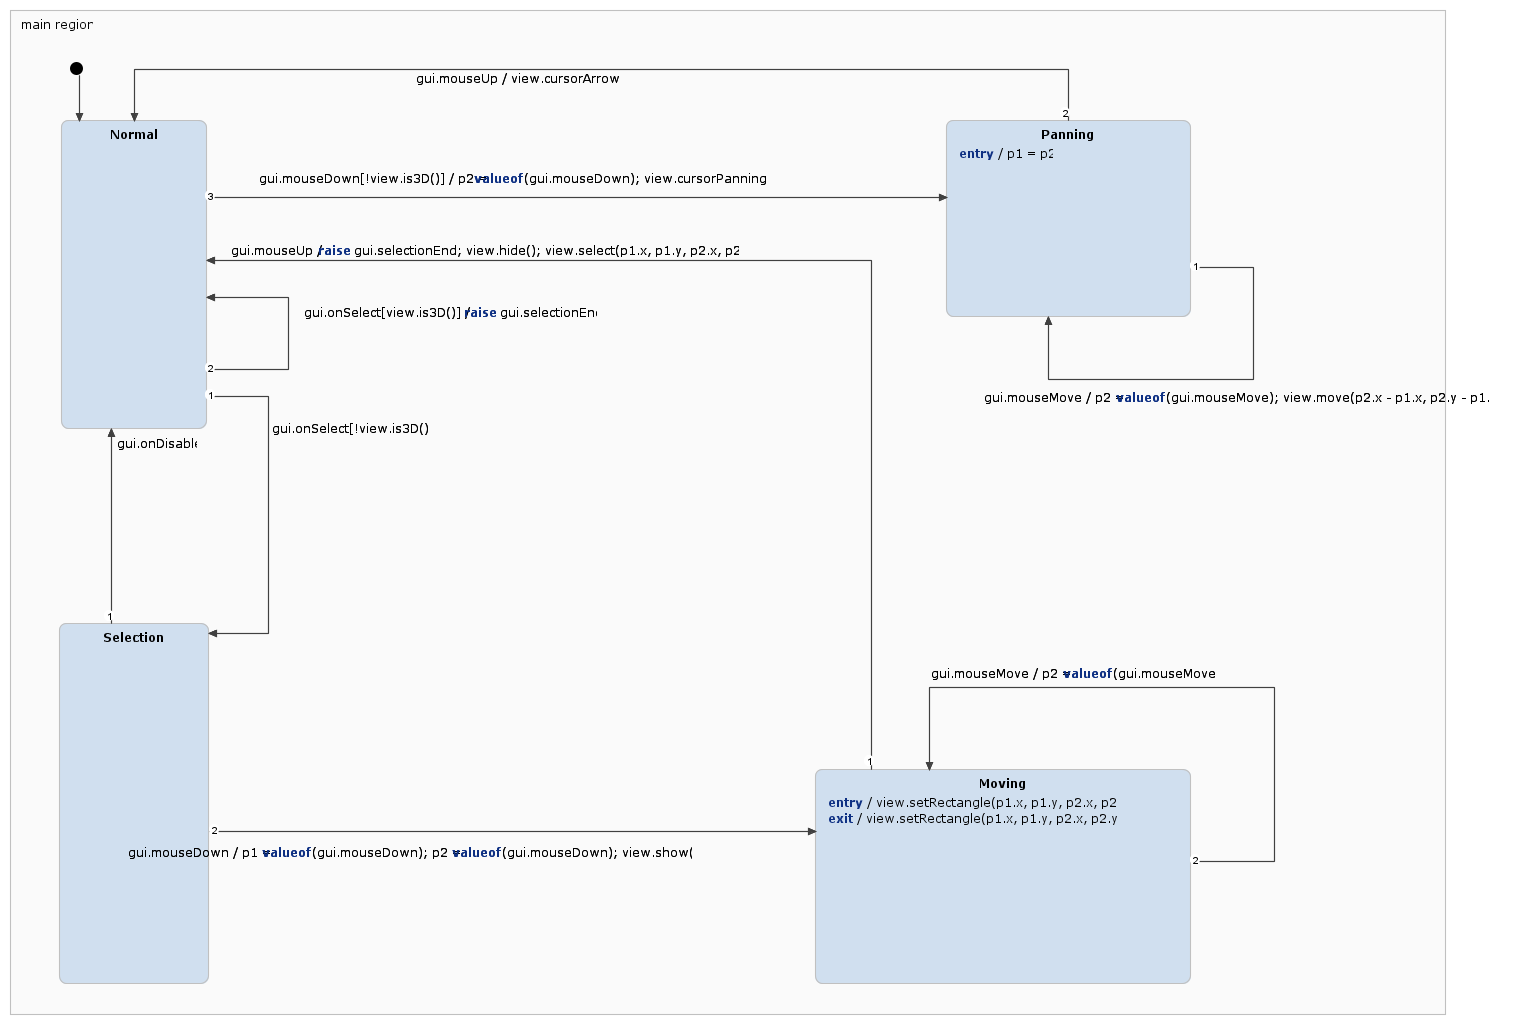
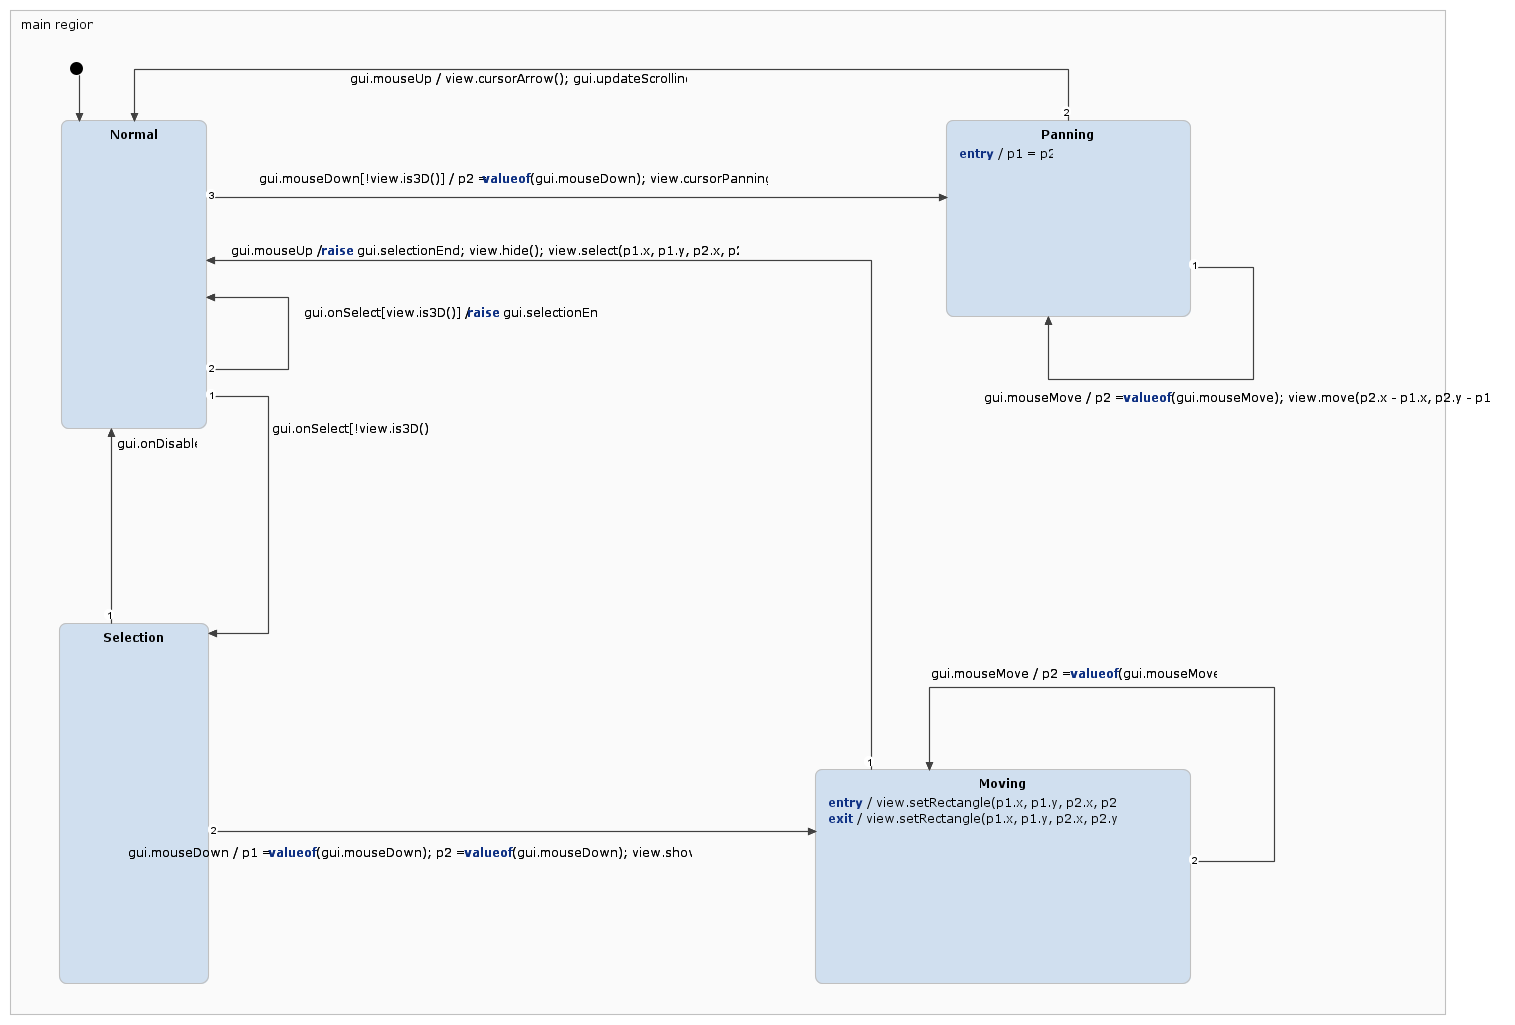
Added scrollbar updates after panning.

diff --git a/src/OpenGL/src-gen/MouseSelect.cpp b/src/OpenGL/src-gen/MouseSelect.cpp
@@ -40,7 +40,8 @@ mouseMove_value(),
 mouseUp_raised(false),
 mouseUp_value(),
 selectionEnd_raised(false),
-parent(parent)
+parent(parent),
+ifaceGuiOperationCallback(sc_null)
 {
 }
 
@@ -160,6 +161,9 @@ sc_boolean MouseSelect::isFinal() const
    return false;}
 
 sc_boolean MouseSelect::check() {
+	if (this->ifaceGui.ifaceGuiOperationCallback == sc_null) {
+		return false;
+	}
 	if (this->ifaceView.ifaceViewOperationCallback == sc_null) {
 		return false;
 	}
@@ -248,6 +252,10 @@ void MouseSelect::Gui::internal_raiseMouseUp(SCT_point value)
 sc::rx::Observable<void>* MouseSelect::Gui::getSelectionEnd()
 {
 	return &(this->selectionEnd_observable);
+}
+void MouseSelect::Gui::setOperationCallback(OperationCallback* operationCallback)
+{
+	ifaceGuiOperationCallback = operationCallback;
 }
 MouseSelect::View* MouseSelect::view()
 {
@@ -540,6 +548,7 @@ sc_integer MouseSelect::main_region_Panning_react(const sc_integer transitioned_
 			{ 
 				exseq_main_region_Panning();
 				ifaceView.ifaceViewOperationCallback->cursorArrow();
+				ifaceGui.ifaceGuiOperationCallback->updateScrolling();
 				enseq_main_region_Normal_default();
 				react(0);
 				transitioned_after = 0;

diff --git a/src/OpenGL/src-gen/MouseSelect.h b/src/OpenGL/src-gen/MouseSelect.h
@@ -151,6 +151,20 @@ public:
 
 
 
+		//! Inner class for gui interface scope operation callbacks.
+		class OperationCallback
+		{
+		public:
+			virtual ~OperationCallback() = 0;
+
+			virtual void updateScrolling() = 0;
+
+
+		};
+
+		/*! Set the working instance of the operation callback interface 'OperationCallback'. */
+		void setOperationCallback(OperationCallback * operationCallback);
+
 
 	private:
 		friend class MouseSelect;
@@ -181,6 +195,7 @@ public:
 
 
 
+		OperationCallback * ifaceGuiOperationCallback;
 
 
 	};
@@ -353,6 +368,7 @@ private:
 };
 
 
+inline MouseSelect::Gui::OperationCallback::~OperationCallback() {}
 inline MouseSelect::View::OperationCallback::~OperationCallback() {}
 
 

diff --git a/src/OpenGL/b3OpenGLScrollArea.cpp b/src/OpenGL/b3OpenGLScrollArea.cpp
@@ -37,6 +37,7 @@ QB3OpenGLScrollArea::QB3OpenGLScrollArea(QWidget * parent) :
 
 	b3PrintF(B3LOG_FULL, "%d %d %lf\n", rel, pos, value);
 #endif
+	gui()->setOperationCallback(this);
 }
 
 void QB3OpenGLScrollArea::setGlWidget(QB3OpenGLWidget * glWidget)
@@ -127,6 +128,16 @@ void QB3OpenGLScrollArea::yValueChanged(int value)
 		child->b3MoveView(0.0, rel, view_info);
 		v.bar_pos = value;
 	}
+}
+
+void QB3OpenGLScrollArea::updateScrolling()
+{
+	b3_view_info view_info;
+
+	child->m_View.b3GetView(view_info);
+	b3GetBarInfo(view_info, h, v);
+	update(horizontalScrollBar(), h);
+	update(verticalScrollBar(), v);
 }
 
 void QB3OpenGLScrollArea::b3FullView()

diff --git a/src/OpenGL/b3OpenGLScrollArea.h b/src/OpenGL/b3OpenGLScrollArea.h
@@ -49,10 +49,11 @@ struct QB3BarInfo
 
 class QB3OpenGLScrollArea :
 	public QScrollArea,
-	public MouseSelect,
-	public MouseSelect::Gui,
-	public MouseSelect::View,
-	public sc::rx::SingleSubscriptionObserver<void>
+	protected MouseSelect,
+	protected MouseSelect::Gui,
+	protected MouseSelect::View,
+	protected MouseSelect::Gui::OperationCallback,
+	protected sc::rx::SingleSubscriptionObserver<void>
 {
 	Q_OBJECT
 
@@ -73,6 +74,7 @@ signals:
 private slots:
 	void xValueChanged(int value);
 	void yValueChanged(int value);
+	void updateScrolling() override;
 
 protected:
 	void resizeEvent(QResizeEvent * event) override;
